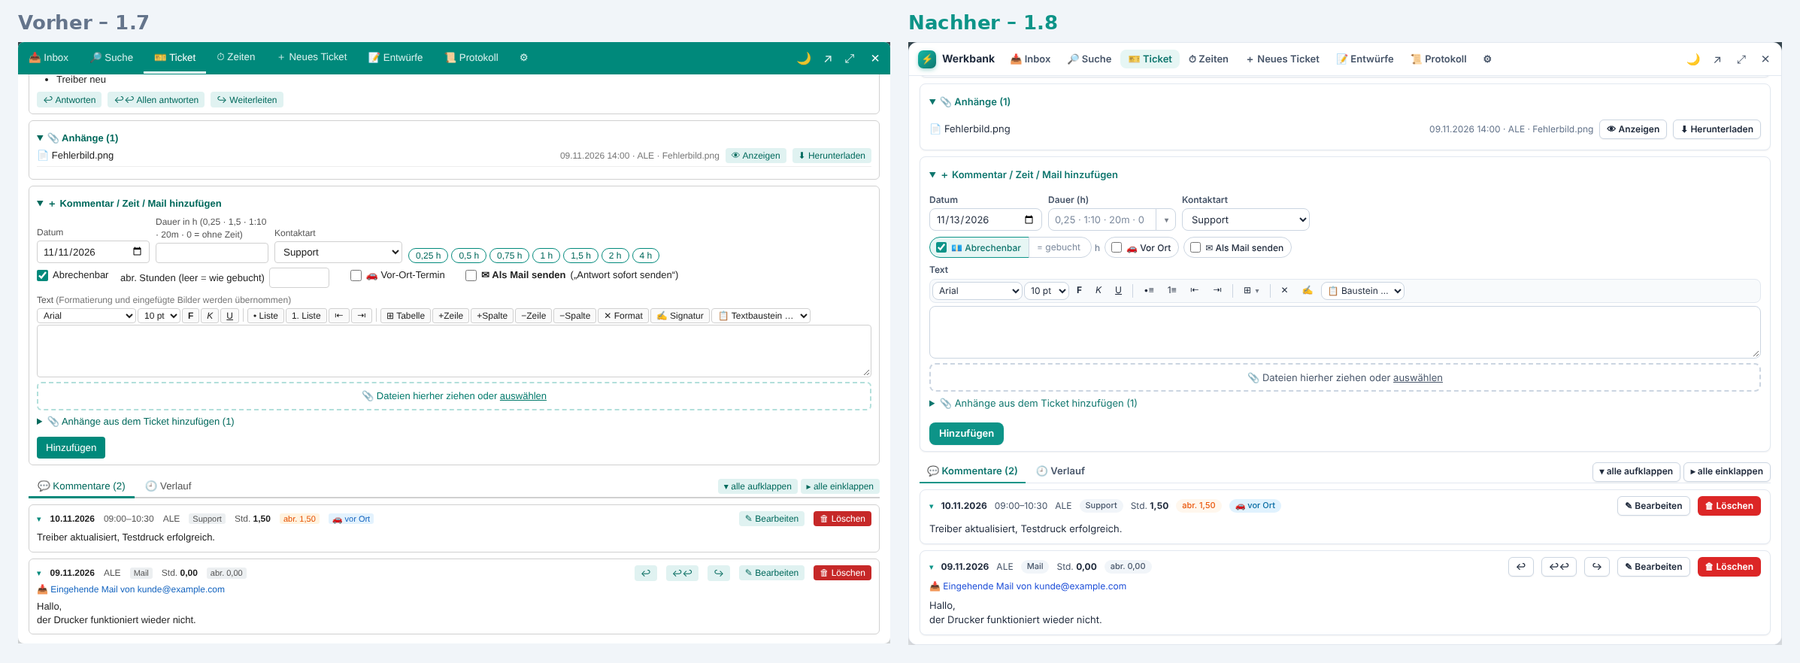
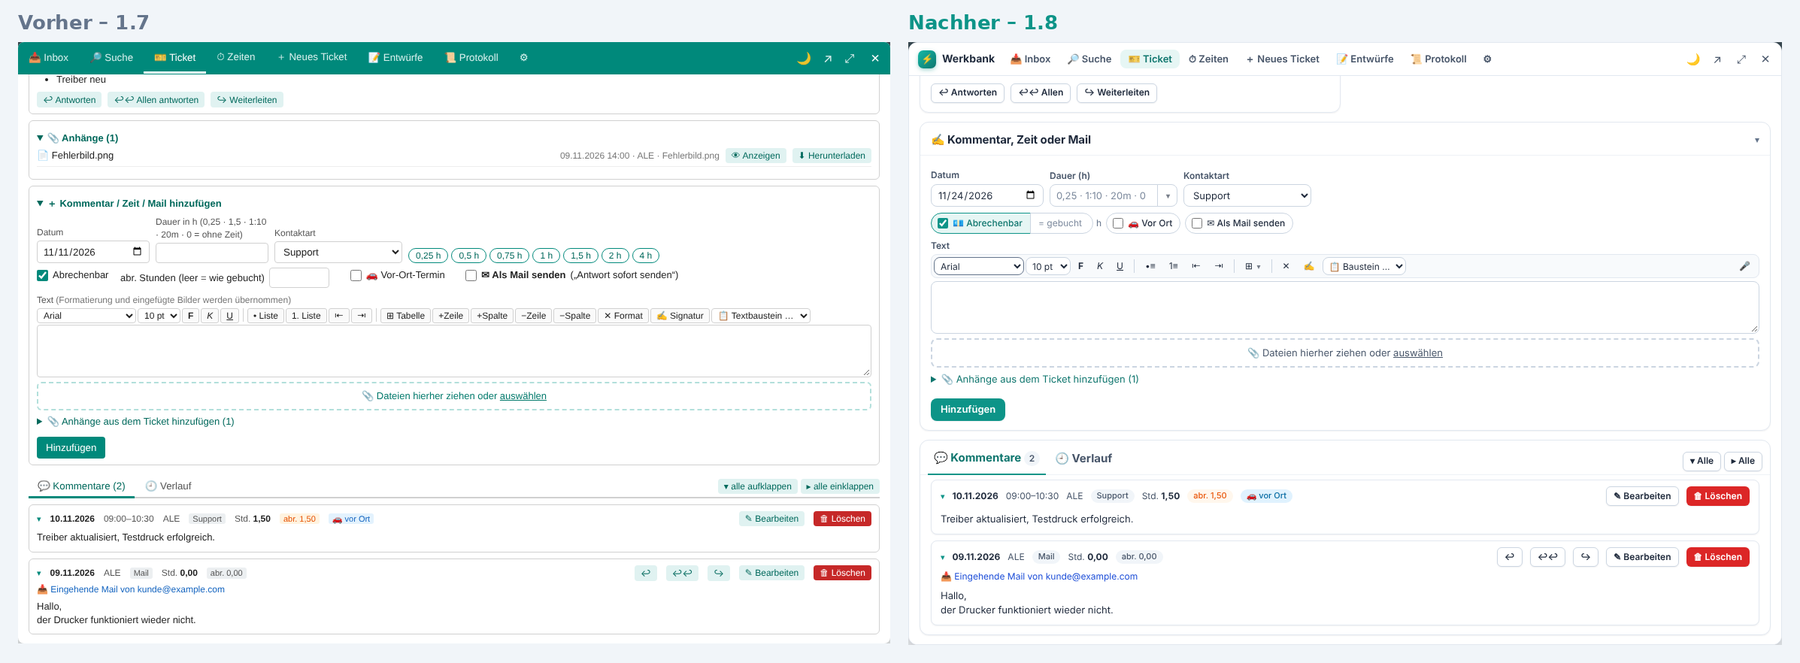
Beta 1.8.0.9: Ticket-Seite in Kacheln, größere Überschriften, weniger Text
- Kopf: Ticketnummer, Betreff, QuickClose und ⋯ in einer Zeile
- 2×2-Raster: Ticketdaten (Felder + Speichern/Verwerfen), Übersicht (Angelegt,
  Ersteller, Stunden, abrechenbar, An/Cc als Kennzahlen), Beschreibung,
  Anhänge; in schmalen Fenstern einspaltig (Container-Query)
- Breite Kacheln für Kommentar/Zeit/Mail und Kommentare/Verlauf;
  Kachelüberschriften größer, einklappbar mit Pfeil; Anzahl als Zähler
- Kürzere Texte: Platzhalter, Anhang-Knöpfe, „Aus MultiData“, Antworten-
  Knöpfe, Hinweis zum Firmenwechsel; Verlauf-Hinweis nur noch bei fehlendem
  Protokoll; Child-Tickets/Zusammenführen im gleichen Kachelstil
- Dark Mode: Beschreibung auf hellem „Papier“ wie Kommentare
- README, Release-Notes und Vergleichsbilder aktualisiert

Claude-Session: https://claude.ai/code/session_01Sja8NEqxMe1dN5o1CFbpFY

diff --git a/beta/multidata-werkbank.user.js b/beta/multidata-werkbank.user.js
@@ -1,7 +1,7 @@
 // ==UserScript==
 // @name         MultiData Werkbank (Beta)
 // @namespace    https://github.com/lukasebner1998-ship-it/multidata-werkbank
-// @version      1.8.0.8
+// @version      1.8.0.9
 // @description  Ticket-Werkbank für MultiData: Suche, Tickets & Kommentare bearbeiten, Zeiten buchen, Mails senden, Anhänge, Ticket anlegen, QuickClose
 // @author       Lukas Ebner
 // @match        https://csp.synaforce.com/mdweb/*
@@ -1527,8 +1527,9 @@
   #mdqt-panel .card .meta{display:flex;gap:10px;flex-wrap:wrap;font-size:12px;color:var(--mq-muted2);align-items:center}
   #mdqt-panel .card .meta b{color:var(--mq-fg)}
   #mdqt-panel .card .txt{margin-top:6px;overflow-x:auto;contain:content}
-  #mdqt-panel .card .txt p,#mdqt-panel .rte p{margin:2px 0}
-  #mdqt-panel .card .txt ul,#mdqt-panel .card .txt ol,#mdqt-panel .rte ul,#mdqt-panel .rte ol{margin:2px 0;padding-left:26px}
+  #mdqt-panel .card .txt p,#mdqt-panel .tile .txt p,#mdqt-panel .rte p{margin:2px 0}
+  #mdqt-panel .tile>.txt{overflow-x:auto;contain:content}
+  #mdqt-panel .card .txt ul,#mdqt-panel .card .txt ol,#mdqt-panel .tile .txt ul,#mdqt-panel .tile .txt ol,#mdqt-panel .rte ul,#mdqt-panel .rte ol{margin:2px 0;padding-left:26px}
   #mdqt-panel .card .txt li,#mdqt-panel .rte li{margin:1px 0}
   #mdqt-panel .card .meta[data-ref=cHead]{cursor:pointer}
   #mdqt-panel .card .tog::before{content:'▾';color:var(--mq-accent);font-size:11px}
@@ -1541,13 +1542,43 @@
   #mdqt-panel details[open]>summary{margin-bottom:6px}
 
   /* ---------- Ticket-Kopf ---------- */
-  #mdqt-panel .head{background:var(--mq-soft);border:1px solid var(--mq-border);border-radius:var(--mq-r);padding:10px 12px}
-  #mdqt-panel .head h3{margin:0;font-size:16px;white-space:nowrap;color:var(--mq-accent-fg);font-variant-numeric:tabular-nums}
-  #mdqt-panel .head .hrow1{display:flex;gap:10px;align-items:center}
-  #mdqt-panel .head .hrow1 input{font-weight:600;font-size:14px;min-height:32px}
-  #mdqt-panel .head .hgrid{display:grid;grid-template-columns:repeat(auto-fill,minmax(170px,1fr));gap:0 8px;margin-top:2px}
-  #mdqt-panel .head .hgrid .wide{grid-column:span 2}
-  #mdqt-panel .head .hbar{margin-top:8px;align-items:center}
+  #mdqt-panel .body{container:wb / inline-size}
+  #mdqt-panel .thero{padding:10px 12px;border:1px solid var(--mq-border);border-radius:var(--mq-r-lg);background:var(--mq-soft)}
+  #mdqt-panel .thero .hrow1{display:flex;gap:8px;align-items:center}
+  #mdqt-panel .thero .sid{font-size:19px;font-weight:700;letter-spacing:-.01em;color:var(--mq-accent-fg);white-space:nowrap;font-variant-numeric:tabular-nums}
+  #mdqt-panel .thero .hrow1 input{font-weight:600;font-size:15px;min-height:36px}
+  #mdqt-panel .tgrid{display:grid;grid-template-columns:repeat(2,minmax(0,1fr));gap:12px;margin-top:12px;align-items:start}
+  @container wb (max-width:760px){#mdqt-panel .tgrid{grid-template-columns:minmax(0,1fr)}}
+  #mdqt-panel .tile{border:1px solid var(--mq-border);border-radius:var(--mq-r-lg);background:var(--mq-bg);padding:12px 14px;box-shadow:var(--mq-shadow-sm);min-width:0}
+  #mdqt-panel .tile.tfull{margin-top:12px}
+  #mdqt-panel [data-ref=hExtra]>.card{margin-top:12px;border-radius:var(--mq-r-lg);padding:12px 14px}
+  #mdqt-panel [data-ref=hExtra]>.card>b:first-child{display:block;font-size:15px;margin:0 -14px 10px;padding:0 14px 10px;border-bottom:1px solid var(--mq-line)}
+  #mdqt-panel .tth,#mdqt-panel details.tile>summary{display:flex;align-items:center;gap:8px;font-size:15px;font-weight:700;letter-spacing:-.005em;color:var(--mq-fg);
+    margin:0 -14px 10px;padding:0 14px 10px;border-bottom:1px solid var(--mq-line);list-style:none}
+  #mdqt-panel details.tile>summary{cursor:pointer;user-select:none}
+  #mdqt-panel details.tile>summary::-webkit-details-marker{display:none}
+  #mdqt-panel details.tile>summary::after{content:'▾';margin-left:auto;color:var(--mq-muted);font-size:12px;font-weight:400}
+  #mdqt-panel details.tile:not([open])>summary{border-bottom:none;margin-bottom:0;padding-bottom:0}
+  #mdqt-panel details.tile:not([open])>summary::after{content:'▸'}
+  #mdqt-panel details.tile>summary:hover{color:var(--mq-accent-fg)}
+  #mdqt-panel .cnt{display:inline-block;min-width:20px;padding:0 7px;border-radius:999px;background:var(--mq-tag);color:var(--mq-muted2);font-size:12px;font-weight:600;line-height:20px;text-align:center}
+  #mdqt-panel .fgrid{display:grid;grid-template-columns:repeat(2,minmax(0,1fr));gap:0 10px}
+  #mdqt-panel .fgrid label.l{margin-top:4px}
+  #mdqt-panel .fgrid .wide{grid-column:1/-1}
+  #mdqt-panel .tfoot{display:flex;flex-wrap:wrap;align-items:center;gap:8px;margin-top:10px}
+  #mdqt-panel .stats{display:grid;grid-template-columns:repeat(2,minmax(0,1fr));gap:8px}
+  #mdqt-panel .st{background:var(--mq-soft);border-radius:var(--mq-r);padding:7px 10px;min-width:0}
+  #mdqt-panel .st span{display:block;font-size:11px;font-weight:600;text-transform:uppercase;letter-spacing:.04em;color:var(--mq-muted)}
+  #mdqt-panel .st b{display:block;font-size:14px;overflow-wrap:anywhere}
+  #mdqt-panel .st b i{font-style:normal}
+  #mdqt-panel .st.wide{grid-column:1/-1}
+  #mdqt-panel .tcom .btabs{margin:-2px -14px 4px;padding:0 10px;border-bottom:1px solid var(--mq-line)}
+  #mdqt-panel .tcom .btabs button[data-b]{font-size:15px;font-weight:700;padding:4px 8px 10px}
+  #mdqt-panel .tcom>div>.card:first-child{margin-top:6px}
+  #mdqt-panel .doc .nm{flex:1;word-break:break-all}
+  #mdqt-panel .doc .dinfo{flex:1;min-width:0;display:flex;flex-direction:column}
+  #mdqt-panel .doc .dinfo .nm{word-break:break-all}
+  #mdqt-panel .doc .dinfo .hint{font-size:11px}
   #mdqt-panel .sug{position:relative}#mdqt-panel .sug .results{position:absolute;left:0;right:0;top:calc(100% + 4px);z-index:6}
   #mdqt-panel .chg{outline:2px solid var(--mq-amber) !important;outline-offset:-1px;background:var(--mq-unread) !important}
   #mdqt-panel label.chk.chg{outline-offset:2px;border-radius:4px}
@@ -1614,7 +1645,6 @@
   #mdqt-panel .mailbox{border-left:3px solid #3b82f6;border-radius:0 var(--mq-r) var(--mq-r) 0;padding:6px 0 6px 12px;margin-top:8px;background:var(--mq-mail-bg)}
   #mdqt-panel .doc{display:flex;gap:8px;align-items:center;padding:6px 0;border-bottom:1px solid var(--mq-line)}
   #mdqt-panel .doc:last-child{border-bottom:none}
-  #mdqt-panel .doc .nm{flex:1;word-break:break-all}
   #mdqt-panel .mailinfo{font-size:12px;color:var(--mq-link2);margin-top:4px}
 
   /* ---------- Zeiten ---------- */
@@ -1650,9 +1680,9 @@
   #mdqt-panel .ibx .dt{flex:0 0 auto;font-size:12px;color:var(--mq-muted);white-space:nowrap}
 
   /* Mail-/Kommentarinhalte im Dark Mode auf hellem „Papier“, damit fremde Textfarben lesbar bleiben */
-  #mdqt-panel.dark .rte,#mdqt-panel.dark .card .txt{background:#f5f5f4 !important;color:#1c1917 !important;border-radius:var(--mq-r)}
-  #mdqt-panel.dark .card .txt{padding:8px 10px}
-  #mdqt-panel.dark .card .txt a,#mdqt-panel.dark .rte a{color:#0f766e}
+  #mdqt-panel.dark .rte,#mdqt-panel.dark .card .txt,#mdqt-panel.dark .tile>.txt{background:#f5f5f4 !important;color:#1c1917 !important;border-radius:var(--mq-r)}
+  #mdqt-panel.dark .card .txt,#mdqt-panel.dark .tile>.txt{padding:8px 10px}
+  #mdqt-panel.dark .card .txt a,#mdqt-panel.dark .tile>.txt a,#mdqt-panel.dark .rte a{color:#0f766e}
   #mdqt-panel.dark .card .txt .hint{color:#57534e}
   #mdqt-panel.dark .tb button,#mdqt-panel.dark .tb select{color:var(--mq-fg)}
   #mdqt-panel.dark .flag,#mdqt-panel.dark .dot{box-shadow:0 0 0 1px #0006}
@@ -1789,7 +1819,7 @@
         <div class="row" style="margin-bottom:8px">
           <div class="c s" style="flex-basis:160px"><input type="text" data-ref="tSid" placeholder="Ticket-ID"></div>
           <button class="btn sec" data-ref="tLoad">Laden</button>
-          <button class="btn sec" data-ref="tPage">Aktuelles MultiData-Ticket</button>
+          <button class="btn sec" data-ref="tPage" title="Das gerade in MultiData geöffnete Ticket laden">⇱ Aus MultiData</button>
           <span style="flex:1"></span>
           <button class="btn sec" data-ref="tReload">↻ Neu laden</button>
         </div>
@@ -2801,44 +2831,52 @@
     view.innerHTML = '';
 
     // --- Kopf: alle Felder werden vorgemerkt (gelb markiert) und gemeinsam mit „Speichern“ übernommen ---
-    const head = el('div', { className: 'head' });
+    const head = el('div', { className: 'tview' });
     head.innerHTML = `
-      <div class="hrow1">
-        <h3>#${t.SID}</h3>
-        <input type="text" data-ref="hTitle" spellcheck="true" lang="de" title="Betreff">
-        <div class="dd r" data-dd="tmore">
-          <button type="button" class="btn sec ddb" title="Öffnen, Teilen, Child-Tickets, Zusammenführen">⋯</button>
-          <div class="ddm" style="min-width:220px">
-            <a href="#" data-ref="hOpen" target="_blank" class="btn sm sec mi" title="Öffnet MultiData mit diesem Ticket in einem neuen Tab">↗ In MultiData öffnen</a>
-            <a href="#" data-ref="hNewTab" class="btn sm sec mi" title="Dieses Ticket in einem weiteren Werkbank-Tab öffnen">⧉ In neuem Tab</a>
-            <button class="btn sm sec mi" data-ref="hShare" data-keep title="MultiData-Link des Tickets kopieren (Umschalt+Klick: „#Nr. Betreff“ + Link)">🔗 Link kopieren</button>
-            <div class="ddsep"></div>
-            <button class="btn sm sec mi" data-ref="hKids" title="Child-Tickets anzeigen, zuordnen, erstellen">🌿 Child-Tickets</button>
-            <button class="btn sm sec mi" data-ref="hMerge" title="Dieses Ticket in ein anderes zusammenführen">🔀 Zusammenführen</button>
+      <div class="thero">
+        <div class="hrow1">
+          <span class="sid">#${t.SID}</span>
+          <input type="text" data-ref="hTitle" spellcheck="true" lang="de" title="Betreff (Enter = speichern)">
+          <button class="btn warn" data-ref="hQC" title="Ticket per QuickClose schließen (erzeugt den Abschlusstext)">QuickClose</button>
+          <div class="dd r" data-dd="tmore">
+            <button type="button" class="btn sec ddb" title="Öffnen, Teilen, Child-Tickets, Zusammenführen">⋯</button>
+            <div class="ddm" style="min-width:220px">
+              <a href="#" data-ref="hOpen" target="_blank" class="btn sm sec mi" title="Öffnet MultiData mit diesem Ticket in einem neuen Tab">↗ In MultiData öffnen</a>
+              <a href="#" data-ref="hNewTab" class="btn sm sec mi" title="Dieses Ticket in einem weiteren Werkbank-Tab öffnen">⧉ In neuem Tab</a>
+              <button class="btn sm sec mi" data-ref="hShare" data-keep title="MultiData-Link des Tickets kopieren (Umschalt+Klick: „#Nr. Betreff“ + Link)">🔗 Link kopieren</button>
+              <div class="ddsep"></div>
+              <button class="btn sm sec mi" data-ref="hKids" title="Child-Tickets anzeigen, zuordnen, erstellen">🌿 Child-Tickets</button>
+              <button class="btn sm sec mi" data-ref="hMerge" title="Dieses Ticket in ein anderes zusammenführen">🔀 Zusammenführen</button>
+            </div>
           </div>
         </div>
       </div>
-      <div class="hgrid">
-        <div><label class="l">Status</label><select data-ref="hStatus"></select></div>
-        <div><label class="l">Priorität</label><select data-ref="hPrio"></select></div>
-        <div><label class="l">Queue</label><select data-ref="hQueue"></select></div>
-        <div class="sug"><label class="l">Bearbeiter</label><input type="text" data-ref="hUser" autocomplete="off" placeholder="Name oder Kürzel …"><div class="results" data-ref="hUserRes" style="display:none"></div></div>
-        <div class="sug wide"><label class="l">Firma</label><input type="text" data-ref="hFirm" autocomplete="off" placeholder="Firma suchen (mind. 3 Zeichen) …"><div class="results" data-ref="hFirmRes" style="display:none"></div></div>
-        <div><label class="l">Parent-Ticket</label><input type="text" data-ref="hParent" placeholder="Ticket-Nr. (leer = keins)"></div>
-      </div>
-      <div class="row hbar">
-        <label class="chk" style="margin:0" title="Gesetzt = zu diesem Ticket gehen keine Mails raus"><input type="checkbox" data-ref="hNoNotify"> Keine Benachrichtigungen</label>
-        <span class="hint" data-ref="hParentInfo"></span>
-        <span style="flex:1"></span>
-        <button class="btn sec" data-ref="hReset" style="display:none" title="Vorgemerkte Änderungen verwerfen">Verwerfen</button>
-        <button class="btn" data-ref="hSave" title="Alle gelb markierten Änderungen übernehmen (Enter im Betreff)">Speichern</button>
-      </div>
-      <div class="warnbox" data-ref="hFirmWarn" style="display:none">Firmenwechsel: MultiData kann dabei abrechenbare Stunden zurücksetzen – bitte nach dem Speichern prüfen.</div>
-      <div class="row hbar">
-        <div class="sums" data-ref="hSums" style="flex:1;min-width:240px"></div>
-        <button class="btn sm warn" data-ref="hQC" title="Ticket per QuickClose schließen (erzeugt den Abschlusstext)">QuickClose</button>
-      </div>
-      <div data-ref="hExtra"></div>`;
+      <div data-ref="hExtra"></div>
+      <div class="tgrid" data-ref="tGrid">
+        <div class="tile">
+          <div class="tth">🎫 Ticketdaten</div>
+          <div class="fgrid">
+            <div><label class="l">Status</label><select data-ref="hStatus"></select></div>
+            <div><label class="l">Priorität</label><select data-ref="hPrio"></select></div>
+            <div><label class="l">Queue</label><select data-ref="hQueue"></select></div>
+            <div class="sug"><label class="l">Bearbeiter</label><input type="text" data-ref="hUser" autocomplete="off" placeholder="Name oder Kürzel"><div class="results" data-ref="hUserRes" style="display:none"></div></div>
+            <div class="sug wide"><label class="l">Firma</label><input type="text" data-ref="hFirm" autocomplete="off" placeholder="Firma suchen …"><div class="results" data-ref="hFirmRes" style="display:none"></div></div>
+            <div><label class="l">Parent-Ticket</label><input type="text" data-ref="hParent" placeholder="Ticket-Nr."></div>
+            <div style="align-self:end"><label class="chk" style="margin:0 0 7px" title="Gesetzt = zu diesem Ticket gehen keine Mails raus"><input type="checkbox" data-ref="hNoNotify"> Keine Benachrichtigungen</label></div>
+          </div>
+          <div class="hint" data-ref="hParentInfo"></div>
+          <div class="warnbox" data-ref="hFirmWarn" style="display:none">Firmenwechsel: abrechenbare Stunden nach dem Speichern prüfen.</div>
+          <div class="tfoot">
+            <span style="flex:1"></span>
+            <button class="btn sec" data-ref="hReset" style="display:none" title="Vorgemerkte Änderungen verwerfen">Verwerfen</button>
+            <button class="btn" data-ref="hSave" title="Gelb markierte Änderungen übernehmen (Enter im Betreff)">Speichern</button>
+          </div>
+        </div>
+        <div class="tile">
+          <div class="tth">📊 Übersicht</div>
+          <div class="stats" data-ref="hSums"></div>
+        </div>
+      </div>`;
     view.appendChild(head);
     const F = { title: $('hTitle', head), status: $('hStatus', head), prio: $('hPrio', head), queue: $('hQueue', head), user: $('hUser', head),
       firm: $('hFirm', head), parent: $('hParent', head), nn: $('hNoNotify', head) };
@@ -2906,8 +2944,10 @@
     });
     refreshDirty();
     wbLink($('hNewTab', head), ticketRoute(t.SID), () => openInNewTab(ticketRoute(t.SID)));
-    $('hSums', head).innerHTML = `Angelegt ${fmtDateTime(t.ANLAGE_DATUM)} von <b data-ref="hCreator">${esc(t.ANLAGE_USER_ID || '–')}</b> · Stunden <b>${fmtH(t.SUM_STD)}</b> · abrechenbar <b>${fmtH(t.MEMO_SUM_ABRSTD)}</b><br>` +
-      `An: ${esc(t.EMAIL_TO || '–')}${t.EMAIL_CC ? ' · Cc: ' + esc(t.EMAIL_CC) : ''}`;
+    const st = (label, val, cls = '') => `<div class="st${cls ? ' ' + cls : ''}"><span>${label}</span><b>${val}</b></div>`;
+    $('hSums', head).innerHTML = st('Angelegt', esc(fmtDateTime(t.ANLAGE_DATUM)) || '–') + st('Ersteller', `<i data-ref="hCreator">${esc(t.ANLAGE_USER_ID || '–')}</i>`) +
+      st('Stunden', fmtH(t.SUM_STD)) + st('abrechenbar', fmtH(t.MEMO_SUM_ABRSTD)) +
+      st('An', esc(t.EMAIL_TO || '–'), 'wide') + (t.EMAIL_CC ? st('Cc', esc(t.EMAIL_CC), 'wide') : '');
     $('hOpen', head).href = mdTicketUrl(t.SID); // immer neuer Tab (Linksklick: wechseln, Mittelklick: im Hintergrund)
     $('hShare', head).addEventListener('click', async ev => {
       const url = mdShareUrl(t.SID), text = ev.shiftKey ? `#${t.SID} ${t.TITEL || ''}\n${url}` : url;
@@ -2952,36 +2992,37 @@
       catch (e) { msg('tMsg', '✖ ' + e.message, 'err'); }
     });
 
-    const anl = el('details', { className: 'card' });
-    anl.innerHTML = `<summary>📄 Anlagetext</summary><div class="txt"></div>`;
+    const grid = $('tGrid', head);
+    const anl = el('details', { className: 'tile' });
+    anl.innerHTML = `<summary>📄 Beschreibung</summary><div class="txt"></div>`;
     persistDetails(anl, 'ticket.anlagetext', true);
     const fillAnl = () => { if (anl.dataset.filled) return; anl.dataset.filled = '1'; fillHtml(anl.querySelector('.txt'), t.ANLAGE_NOTIZ, '<span class="hint">– kein Anlagetext –</span>'); };
     if (anl.open) fillAnl();
     anl.addEventListener('toggle', () => { if (anl.open) fillAnl(); });
     if (t.ANLAGE_NOTIZ && t.EMAIL_TO) {
-      const bar = el('div', { className: 'row' }); bar.style.marginTop = '6px';
+      const bar = el('div', { className: 'row tfoot' });
       const srcA = { inbound: true, from: t.EMAIL_TO, cc: t.EMAIL_CC, date: t.ANLAGE_DATUM, subject: t.TITEL, html: t.ANLAGE_NOTIZ };
-      for (const [m, l] of [['one', '↩ Antworten'], ['all', '↩↩ Allen antworten'], ['fwd', '↪ Weiterleiten']]) {
-        const b = el('button', { className: 'btn sm sec', textContent: l }); b.addEventListener('click', () => ui.reply(srcA, m)); bar.appendChild(b);
+      for (const [m, l, tt] of [['one', '↩ Antworten', 'Antworten'], ['all', '↩↩ Allen', 'Allen antworten'], ['fwd', '↪ Weiterleiten', 'Weiterleiten']]) {
+        const b = el('button', { className: 'btn sm sec', textContent: l, title: tt }); b.addEventListener('click', () => ui.reply(srcA, m)); bar.appendChild(b);
       }
       anl.appendChild(bar);
     }
-    view.appendChild(anl);
+    grid.appendChild(anl);
 
     // --- Anhänge ---
     const docs = ui.docs || [];
-    const dd = el('details', { className: 'card' });
-    dd.innerHTML = `<summary>📎 Anhänge (${docs.length})</summary><div data-ref="dList"></div><div class="msg" data-ref="dMsg"></div>`;
+    const dd = el('details', { className: 'tile' });
+    dd.innerHTML = `<summary>📎 Anhänge <span class="cnt">${docs.length}</span></summary><div data-ref="dList"></div><div class="msg" data-ref="dMsg"></div>`;
     persistDetails(dd, 'ticket.anhaenge', true);
     for (const d of docs) {
       const row = el('div', { className: 'doc' });
       const ext = fileExt(d.DOCUMENT_NAME), isOffice = OFFICE_EXT.has(ext), kind = previewKind(ext);
       const B = (a, label, title = '') => `<button class="btn sm sec" data-a="${a}"${title ? ` title="${title}"` : ''}>${label}</button>`;
-      const btns = ext === 'eml' ? B('open', '✉ Anzeigen') + B('dl', '⬇ Herunterladen')
-        : isOffice ? (kind ? B('preview', '👁 Vorschau', 'Im Browser ansehen, ohne Download') : '') + B('office', '🖥 In Office öffnen', 'Originaldatei herunterladen und im installierten Office öffnen')
-        : kind ? B('preview', '👁 Anzeigen', 'Im Browser ansehen, ohne Download') + B('dl', '⬇ Herunterladen')
-        : B('open', 'Öffnen') + B('dl', '⬇ Herunterladen');
-      row.innerHTML = `<span class="nm"></span><span class="hint">${fmtDateTime(d.DATUM)} · ${esc(d.CREATED_BY || '')}${d.TITEL && d.TITEL !== t.TITEL ? ' · ' + esc(d.TITEL) : ''}</span>${btns}`;
+      const btns = ext === 'eml' ? B('open', '✉ Ansehen', 'Mail in der Werkbank anzeigen') + B('dl', '⬇', 'Herunterladen')
+        : isOffice ? (kind ? B('preview', '👁 Ansehen', 'Im Browser ansehen, ohne Download') : '') + B('office', '🖥 Office', 'Originaldatei herunterladen und im installierten Office öffnen')
+        : kind ? B('preview', '👁 Ansehen', 'Im Browser ansehen, ohne Download') + B('dl', '⬇', 'Herunterladen')
+        : B('open', '↗ Öffnen') + B('dl', '⬇', 'Herunterladen');
+      row.innerHTML = `<div class="dinfo"><span class="nm"></span><span class="hint">${fmtDateTime(d.DATUM)} · ${esc(d.CREATED_BY || '')}${d.TITEL && d.TITEL !== t.TITEL && d.TITEL !== d.DOCUMENT_NAME ? ' · ' + esc(d.TITEL) : ''}</span></div>${btns}`;
       row.querySelector('.nm').textContent = '📄 ' + (d.DOCUMENT_NAME || '(ohne Namen)');
       for (const b of row.querySelectorAll('button')) b.addEventListener('click', async () => {
         const win = b.dataset.a === 'open' || b.dataset.a === 'preview' ? window.open('about:blank', '_blank') : null; // synchron öffnen → kein Popup-Blocker
@@ -3004,7 +3045,7 @@
       $('dList', dd).appendChild(row);
     }
     if (!docs.length) $('dList', dd).innerHTML = '<span class="hint">Keine Anhänge.</span>';
-    view.appendChild(dd);
+    grid.appendChild(dd);
 
     // --- Child-Tickets ---
     const kids = ui.children || [];
@@ -3077,8 +3118,8 @@
     if (secGet('ticket.panel', '') === 'kids') kd.style.display = ''; else if (secGet('ticket.panel', '') === 'merge') mg.style.display = '';
 
     // --- Neuer Kommentar / Zeit / Mail ---
-    const add = el('details', { className: 'card' });
-    add.innerHTML = `<summary>＋ Kommentar / Zeit / Mail hinzufügen</summary>`;
+    const add = el('details', { className: 'tile tfull' });
+    add.innerHTML = `<summary>✍ Kommentar, Zeit oder Mail</summary>`;
     persistDetails(add, 'ticket.neuerKommentar', false);
     const form = timeForm({
       billableDefault: billableDefault({ kndId: t.KND_ID, name: t.MATCHCODE }), allowZero: true, kontaktarten: ka,
@@ -3151,12 +3192,13 @@
     view.appendChild(add);
 
     // --- Reiter unten: Kommentare | Verlauf ---
+    const ctile = el('div', { className: 'tile tfull tcom' });
     const bt = el('div', { className: 'btabs' });
-    bt.innerHTML = `<button data-b="c">💬 Kommentare (${ui.comments.length})</button><button data-b="h" title="Änderungen an Status, Bearbeiter, Queue … sowie Kommentare, Mails und Anhänge in zeitlicher Reihenfolge">🕘 Verlauf</button>
-      <span style="flex:1"></span><span data-ref="cTools"><button class="btn sm sec" data-ref="cAllOpen">▾ alle aufklappen</button> <button class="btn sm sec" data-ref="cAllClose">▸ alle einklappen</button></span>`;
-    view.appendChild(bt);
+    bt.innerHTML = `<button data-b="c">💬 Kommentare <span class="cnt">${ui.comments.length}</span></button><button data-b="h" title="Änderungen an Status, Bearbeiter, Queue … sowie Kommentare, Mails und Anhänge in zeitlicher Reihenfolge">🕘 Verlauf</button>
+      <span style="flex:1"></span><span data-ref="cTools"><button class="btn sm sec" data-ref="cAllOpen" title="Alle Kommentare aufklappen">▾ Alle</button> <button class="btn sm sec" data-ref="cAllClose" title="Alle Kommentare einklappen">▸ Alle</button></span>`;
     const cBox = el('div'), hBox = el('div');
-    view.append(cBox, hBox);
+    ctile.append(bt, cBox, hBox);
+    view.appendChild(ctile);
     const showBottom = b => {
       bt.querySelectorAll('[data-b]').forEach(x => x.classList.toggle('on', x.dataset.b === b));
       cBox.style.display = b === 'c' ? '' : 'none'; hBox.style.display = b === 'h' ? '' : 'none'; $('cTools', bt).style.display = b === 'c' ? '' : 'none';
@@ -3227,7 +3269,7 @@
     ev.sort((a, b) => String(b.at || '').localeCompare(String(a.at || '')));
     const onlyCh = secGet('ticket.histOnly', false);
     box.innerHTML = `<div class="row" style="align-items:center;margin-top:6px"><label class="chk" style="margin:0"><input type="checkbox" data-ref="hiOnly"> nur Feldänderungen</label>
-      <span class="hint" style="flex:1;text-align:right">${proto ? 'Feldänderungen aus dem MultiData-Protokoll.'
+      <span class="hint" style="flex:1;text-align:right">${proto ? ''
         : `MultiData-Protokoll nicht abrufbar (${esc(protoErr && protoErr.message || '')}) – angezeigt werden die Änderungen, die die Werkbank selbst erkannt hat${h.since ? ` (seit ${fmtDateTime(h.since)})` : ''}.`}</span></div>`;
     $('hiOnly', box).checked = onlyCh;
     $('hiOnly', box).addEventListener('change', () => { secSet('ticket.histOnly', $('hiOnly', box).checked); renderHistory(box, t); });

diff --git a/README.md b/README.md
@@ -18,6 +18,7 @@ Das Skript nutzt die gleiche interne Schnittstelle wie die MultiData-Weboberflä
 - **Modernisierte Oberfläche:** neue Kopfzeile mit Logo und Reitern als Pillen (bei schmalem Fenster seitlich scrollbar; Hell/Dunkel, Vollbild und Schließen bleiben sichtbar), einheitliche Design-Tokens für Farben, Abstände und Radien, überarbeitete Knöpfe, Eingabefelder mit Fokus-Ring, Karten, Tabellen, KPI-Kacheln, Editor-Werkzeugleiste und Dark Mode. Alle Funktionen, Tastenkürzel und gespeicherten Einstellungen bleiben unverändert.
 - **Kompakter und aufgeräumter:** geringere Abstände und Feldhöhen. Filter und Optionen stecken in Aufklappmenüs, deren Knopf die aktuelle Auswahl zeigt (z. B. „Status: offene“, „Zeitraum: Heute“). Weicht ein Filter von „alle“ ab, ist der Knopf hervorgehoben. Esc oder ein Klick daneben schließt das Menü.
   - *Suche:* ☆ Vorlagen, Status, Zeitraum, Kunden-Übersicht; ↺ setzt die Filter zurück.
+- **Ticket-Seite in Kacheln:** Oben stehen Ticketnummer, Betreff, QuickClose und ⋯. Darunter vier Kacheln: *Ticketdaten* (Felder + Speichern), *Übersicht* (Angelegt, Ersteller, Stunden, abrechenbar, Empfänger), *Beschreibung* (Anlagetext) und *Anhänge*. Darunter folgen breit *Kommentar, Zeit oder Mail* und *Kommentare / Verlauf*. In schmalen Fenstern stehen die Kacheln untereinander. Beschreibung, Anhänge und das Kommentarformular lassen sich über ihre Überschrift einklappen.
 - **Diktieren 🎤:** Kommentar/Zeit-Editor, „Kommentar bearbeiten“, Betreff und Beschreibung bei „Neues Ticket“, Signatur und Textbausteine haben einen Mikrofon-Knopf. Ein Klick startet das Diktat, ein zweiter Klick, **■ Stopp** oder Esc beendet es. Der Text landet an der Einfügemarke, Satzanfänge werden großgeschrieben, Strg+Z macht es rückgängig. Sprachbefehle: „Punkt“, „Komma“, „Doppelpunkt“, „Fragezeichen“, „Ausrufezeichen“, „neue Zeile“, „neuer Absatz“. Sprache, Sprachbefehle und Knopf lassen sich unter ⚙ → *Diktieren* einstellen. Das funktioniert in Chrome und Edge; der Browser fragt beim ersten Mal nach dem Mikrofon (siehe [Datenschutz](#datenschutz)).
 - **Favoritenleiste:** Unter ☆ Vorlagen macht ein Klick auf den Stern eine Vorlage zum Favoriten ★. Favoriten erscheinen als Knopfleiste über der Suche. Ein Klick wendet die Vorlage an und sucht sofort; die zuletzt gewählte ist hervorgehoben. Abschaltbar unter ⚙ → *Darstellung*.
 - **Themen, Gruppieren und Sortieren in der Suche:**

diff --git a/docs/releases/v1.8.0.md b/docs/releases/v1.8.0.md
@@ -9,6 +9,7 @@ Die Werkbank sieht moderner aus und ist deutlich aufgeräumter. **Alle Funktione
 - **Themen und Gruppieren in der Suche:** Eigene **Themen** mit Stichwörtern im Betreff (z. B. „Wartung“: *Wartungswoche; Wartung*) lassen sich unter ⚙ anlegen. In der Suche gibt es den Filter **Thema** (inkl. „Ohne Thema“) und **Mehr Filter** (Priorität, *Betreff enthält nicht*). Das Menü **Ansicht** gruppiert nach Priorität, Thema, Status, Kunde oder Bearbeiter und sortiert nach jeder Spalte, z. B. nach Betreff. Gruppen zeigen Anzahl und Stunden und lassen sich per Klick einklappen. Vorlagen speichern Thema, Gruppierung und Sortierung mit.
 - **Diktieren 🎤:** Kommentare, Ticket-Beschreibung und Betreff lassen sich per Sprache eingeben, mit Sprachbefehlen wie „Punkt“ und „neue Zeile“. Das nutzt die Spracherkennung von Chrome bzw. Edge; dabei geht die Aufnahme an Google bzw. Microsoft.
 - **Favoritenleiste:** Favorisierte Suchvorlagen (★ im Menü ☆ Vorlagen) erscheinen als Knopfleiste über der Suche, so wechselt man mit einem Klick zwischen ihnen. Abschaltbar unter ⚙ → Darstellung.
+- **Ticket-Seite in Kacheln:** Ticketdaten, Übersicht, Beschreibung und Anhänge im 2×2-Raster mit größeren Überschriften; darunter Kommentar/Zeit buchen sowie Kommentare und Verlauf. In schmalen Fenstern untereinander.
 - **Ticket:** Das Menü **⋯** enthält In MultiData öffnen, In neuem Tab, 🔗 Link kopieren (früher „Teilen“), Child-Tickets und Zusammenführen.
 - **Buchen:** Die Dauer-Schnellwahl steckt im ▾ am Dauer-Feld. *Abrechenbar*, *Vor Ort* und *Als Mail senden* sind Umschalt-Pillen; die abrechenbaren Stunden stehen direkt an der Abrechenbar-Pille.
 - **Texteditor:** Die Tabellen-Befehle stecken im Menü ⊞ ▾, die übrigen Knöpfe sind Symbole mit Tooltip.
